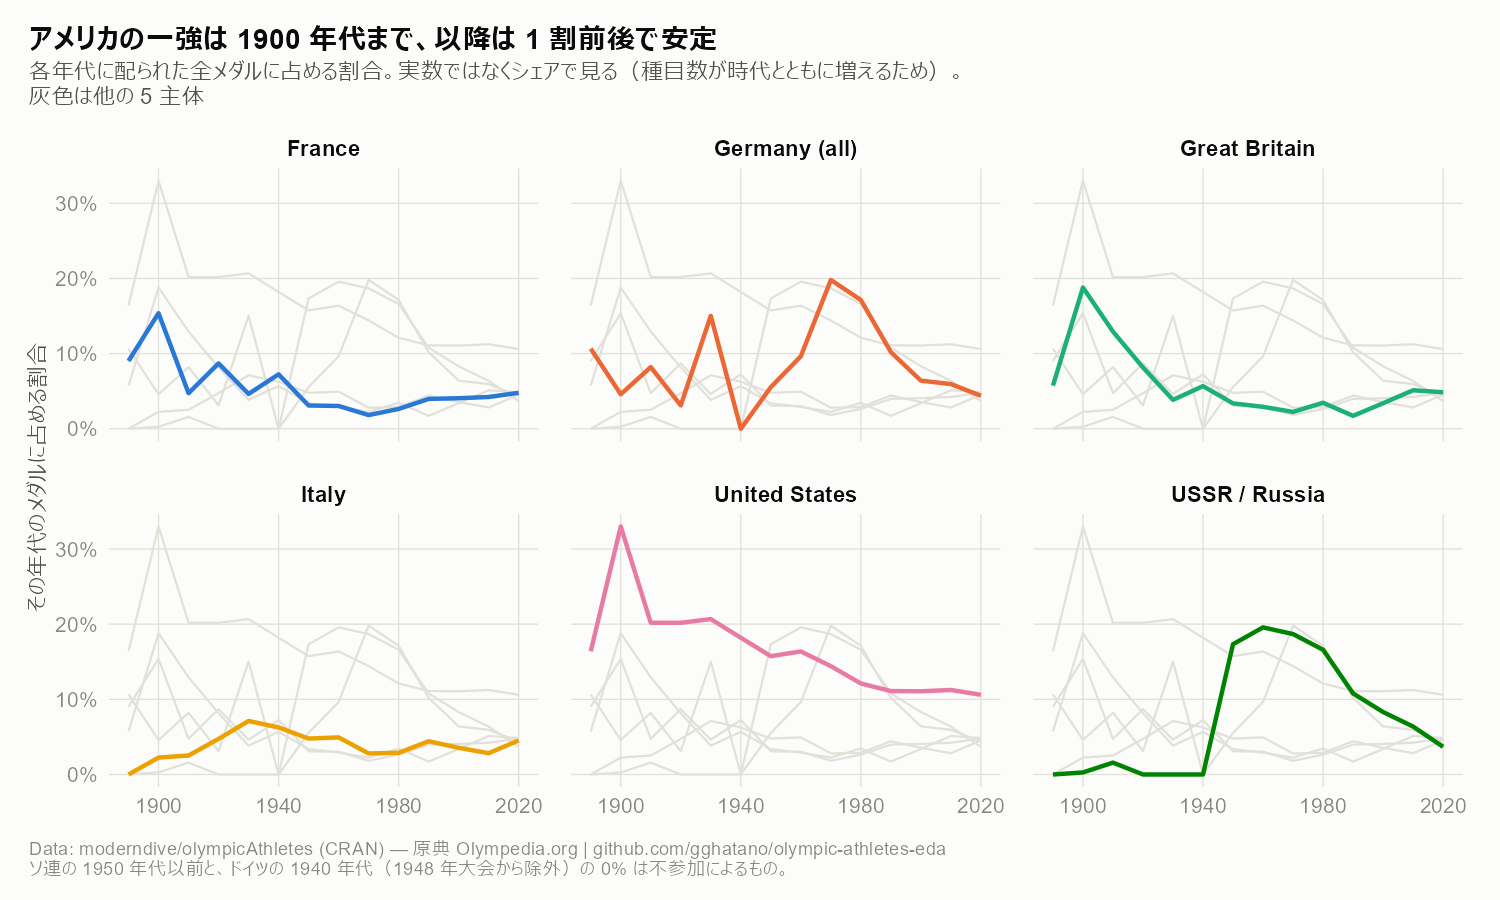
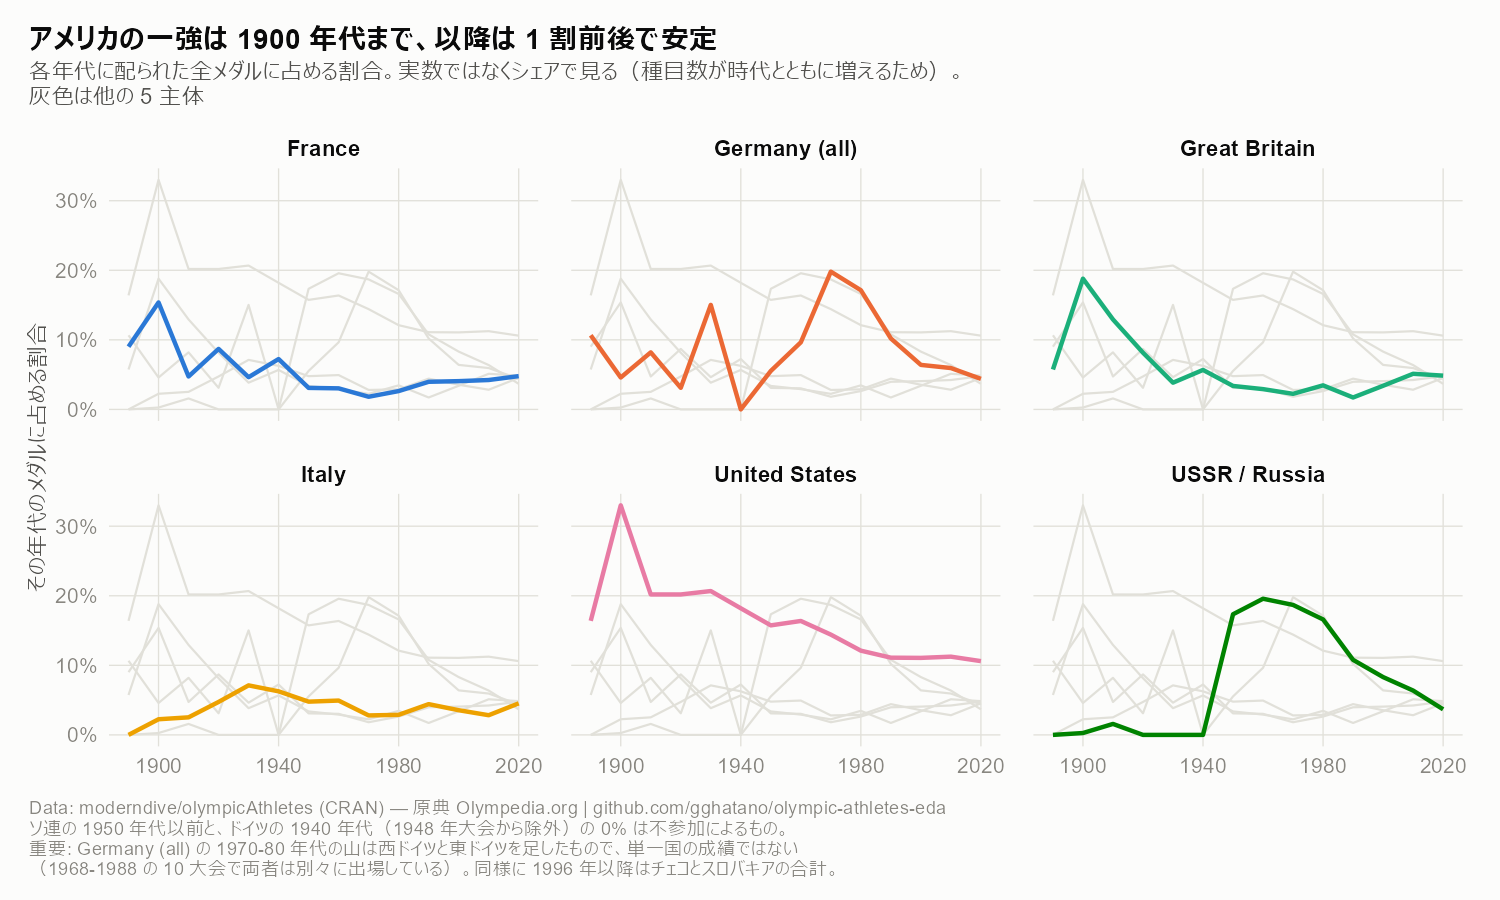
Fix four defects found by adversarially re-checking the analysis
Verifying my own claims against the data turned up errors that reading the
code would not have caught.

1. fig12 claimed heights grew "4-5cm"; the actual endpoint difference is
   +7cm for both sexes. The number had been eyeballed off the chart. It is
   now computed.

2. fig12 combined Summer and Winter into one line. Since 1994 the two
   seasons fall in different years, so the line alternated between summer
   and winter sport mixes — the visible zigzag was a composition artifact,
   not a trend, and it dragged the linear fit down to +5.2/+6.1. Faceting
   by season removes it, and the fit now agrees with the endpoints
   (+7.0/+7.1). The 1960 and 2016 endpoints were also not comparable:
   1960 held both seasons, 2016 only Summer.

3. editions has two rows for 1956 Summer (Melbourne, and Stockholm for the
   equestrian events alone), while medal_table merges them. Sweden was
   therefore credited as host for the whole 1956 Games. Deduplicating to
   the main host changes the host-advantage figure from 57 editions / 89%
   to 56 / 91%.

4. fig05's German peak in the 1970s-80s is FRG and GDR summed while both
   competed separately in ten editions; the chart read as one country.
   Now stated in the caption, with the affected periods tabulated in
   docs/preprocessing.md.

Also softened an overclaim: event-level medal counts were described as
matching the IOC table. Measured against 51 complete editions they differ
[…]

diff --git a/docs/preprocessing.md b/docs/preprocessing.md
@@ -128,10 +128,23 @@ athletes |>
            sport, event, medal)
 ```
 
-これで 44,098 行 → 21,299 行。IOC のメダル表と同じ数え方になる。
+これで 44,098 行 → 21,299 行。
+
+**ただし公式集計と完全一致はしない。** 選手データが揃っている 1896-2016 の
+51 大会で公式総数と突き合わせると、**平均 1.2 件、最大で +7 / −4 件**ずれる
+（1 大会あたり 0.1〜0.2% 程度）。原因は 2 方向ある。
+
+- **過小**: 同一 NOC が同一種目で同色メダルを 2 つ獲得すると `distinct()` で 1 件に潰れる
+- **過大**: 同着や、公式表と種目の括り方が違うケース
+
+比較の用途には十分な精度だが、**メダル数そのものを示す図には使わない**
+（公式 `medal_table` を使う）。この誤差の測定は `tests/check_claims.R` で
+毎回検証している。
 
 **1 種目のメダルが 4 件になるのは正常**（2024 夏では 249 種目中 55 種目）。
 柔道・ボクシング・レスリング・テコンドーは銅を 2 個授与する。
+2016 夏で確認したところ、1 種目あたりのメダル件数は 3 件か 4 件しかなく、
+5 件以上になる種目は存在しない。
 
 ---
 
@@ -149,6 +162,18 @@ athletes |>
 **これは粗い集約**。東西ドイツを足すのも、チェコとスロバキアを
 チェコスロバキアの後継として 1 本にするのも、目的次第で妥当性が変わる。
 使う図には必ず注記する。
+
+**特に注意が要るのは「同じ大会に両方が出場している」期間**。
+継承関係でまとめると、別々に出場した 2 か国の合計を 1 本の線として
+描くことになる。該当するのは次の期間で、`fig05` の 1970-80 年代の
+ドイツの山はまさにこれ（単一国の成績ではない）。
+
+| グループ | 併存している大会 | 内訳 |
+|---|---|---|
+| Germany (all) | 1968-1988 の 10 大会 | FRG + GDR |
+| Czechoslovakia + | 1996 以降の 13 大会 | CZE + SVK |
+
+単一国として見たい場合は `lineage` を使わず生の `noc` で集計する。
 
 **AIN（Individual Neutral Athletes, 2024-2026）は意図的にどこにも入れていない。**
 ロシアとベラルーシの選手が混在しており、片方に寄せると誤りになるため。

diff --git a/reports/eda-report.md b/reports/eda-report.md
@@ -133,7 +133,7 @@ YAML が残り、GitHub 上で表として描画されてしまうため。
 
 ![](../figures/fig06_medal_composition.png)
 
-金メダル比率には 10 ポイント近い差がある。ただし柔道・ボクシング等は
+金メダル比率は上位 12 主体の中で 27% から 40% まで開く。ただし柔道・ボクシング等は
 銅を 2 個授与するため、そうした競技に強い国は構造的に銅の比率が上がる。
 
 ---
@@ -174,7 +174,9 @@ YAML が残り、GitHub 上で表として描画されてしまうため。
 
 ## 5. 選手の身体
 
-以下は **1960-2016 年**（196,692 行）に限定した分析。
+以下は **1960-2016 年**に限定した分析
+（196,619 行。
+`analysis/04_body_metrics.R` と同じく、身長体重の入力誤りとみられる BMI 外れ値を除いてある）。
 
 ![](../figures/fig10_sport_body_map.png)
 
@@ -190,7 +192,7 @@ YAML が残り、GitHub 上で表として描画されてしまうため。
 
 ![](../figures/fig12_height_trend.png)
 
-半世紀で男女とも 4-5cm 伸びている。ただしこれは一般人口の伸長と
+夏季で見ると男女とも 7cm 伸びている（線形近似でも +7.0 / +7.1 cm）。ただしこれは一般人口の伸長と
 種目構成の変化（背の高い競技の種目増）が混ざったもので、本レポートでは分離していない。
 
 ---
@@ -209,8 +211,8 @@ YAML が残り、GitHub 上で表として描画されてしまうため。
 
 |項目                                |値      |
 |:-----------------------------------|:-------|
-|比較できた大会数                    |57      |
-|自国開催でシェアが上振れした割合    |89%     |
+|比較できた大会数                    |56      |
+|自国開催でシェアが上振れした割合    |91%     |
 |上振れ幅の中央値                    |+2.9 pt |
 |1960 年以降に限った上振れ幅の中央値 |+1.7 pt |
 

diff --git a/docs/analysis-ideas.md b/docs/analysis-ideas.md
@@ -36,7 +36,7 @@
 - 注意: どの国が実際に不参加だったかは選手データの出場実績から復元できる
 
 ### A-5. 開催国優位の分解 ★★★
-[fig14](../figures/fig14_host_advantage.png) は「89% の大会で上振れ」までしか
+[fig14](../figures/fig14_host_advantage.png) は「91% の大会で上振れ」までしか
 言っていない。上振れが (a) 出場枠が増えたこと、(b) 1 選手あたりの成績向上、
 (c) 自国有利な種目の採用、のどれで説明されるかを分ける。
 - データ: (a)(b) は選手データで可能（2016 年まで）。(c) は種目採用の経緯が要る
@@ -92,7 +92,7 @@
 
 ### C-4. 体格の大型化はどこまで一般人口の伸長で説明できるか ★★★
 [fig12](../figures/fig12_height_trend.png) は 1960-2016 で男女とも
-4-5cm 伸びたことを示すが、これは一般人口の伸長と種目構成の変化が混ざっている。
+夏季で男女とも 7cm 伸びたことを示すが、これは一般人口の伸長と種目構成の変化が混ざっている。
 - データ: **外部データが必要**（各国の平均身長の時系列。NCD-RisC など）
 - 注意: 国別の選手構成が時代で変わるので、単純な引き算では分離できない
 
